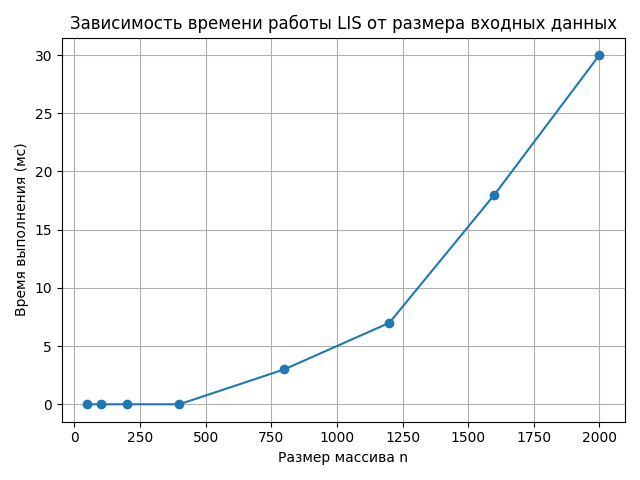
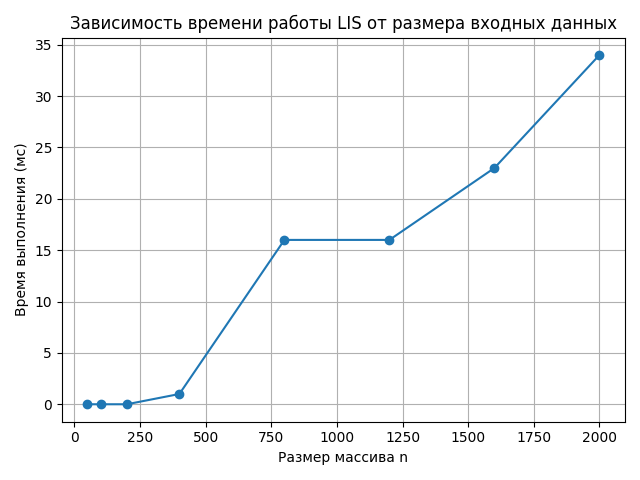
ver2

diff --git a/src/main.cpp b/src/main.cpp
@@ -6,16 +6,9 @@
 #include <fstream>
 #include <cstdlib>
 
-// =======================================
-// Лабораторная работа 7.2, вариант 14
-// Тема: Самая длинная возрастающая подпоследовательность (LIS)
-// Метод: Динамическое программирование O(n²)
-// =======================================
-
-// Результат LIS
 struct LISResult {
     int length;
-    std::vector<int> seq;
+    std::vector<int>§ seq;
 };
 
 // Алгоритм LIS O(n²)
